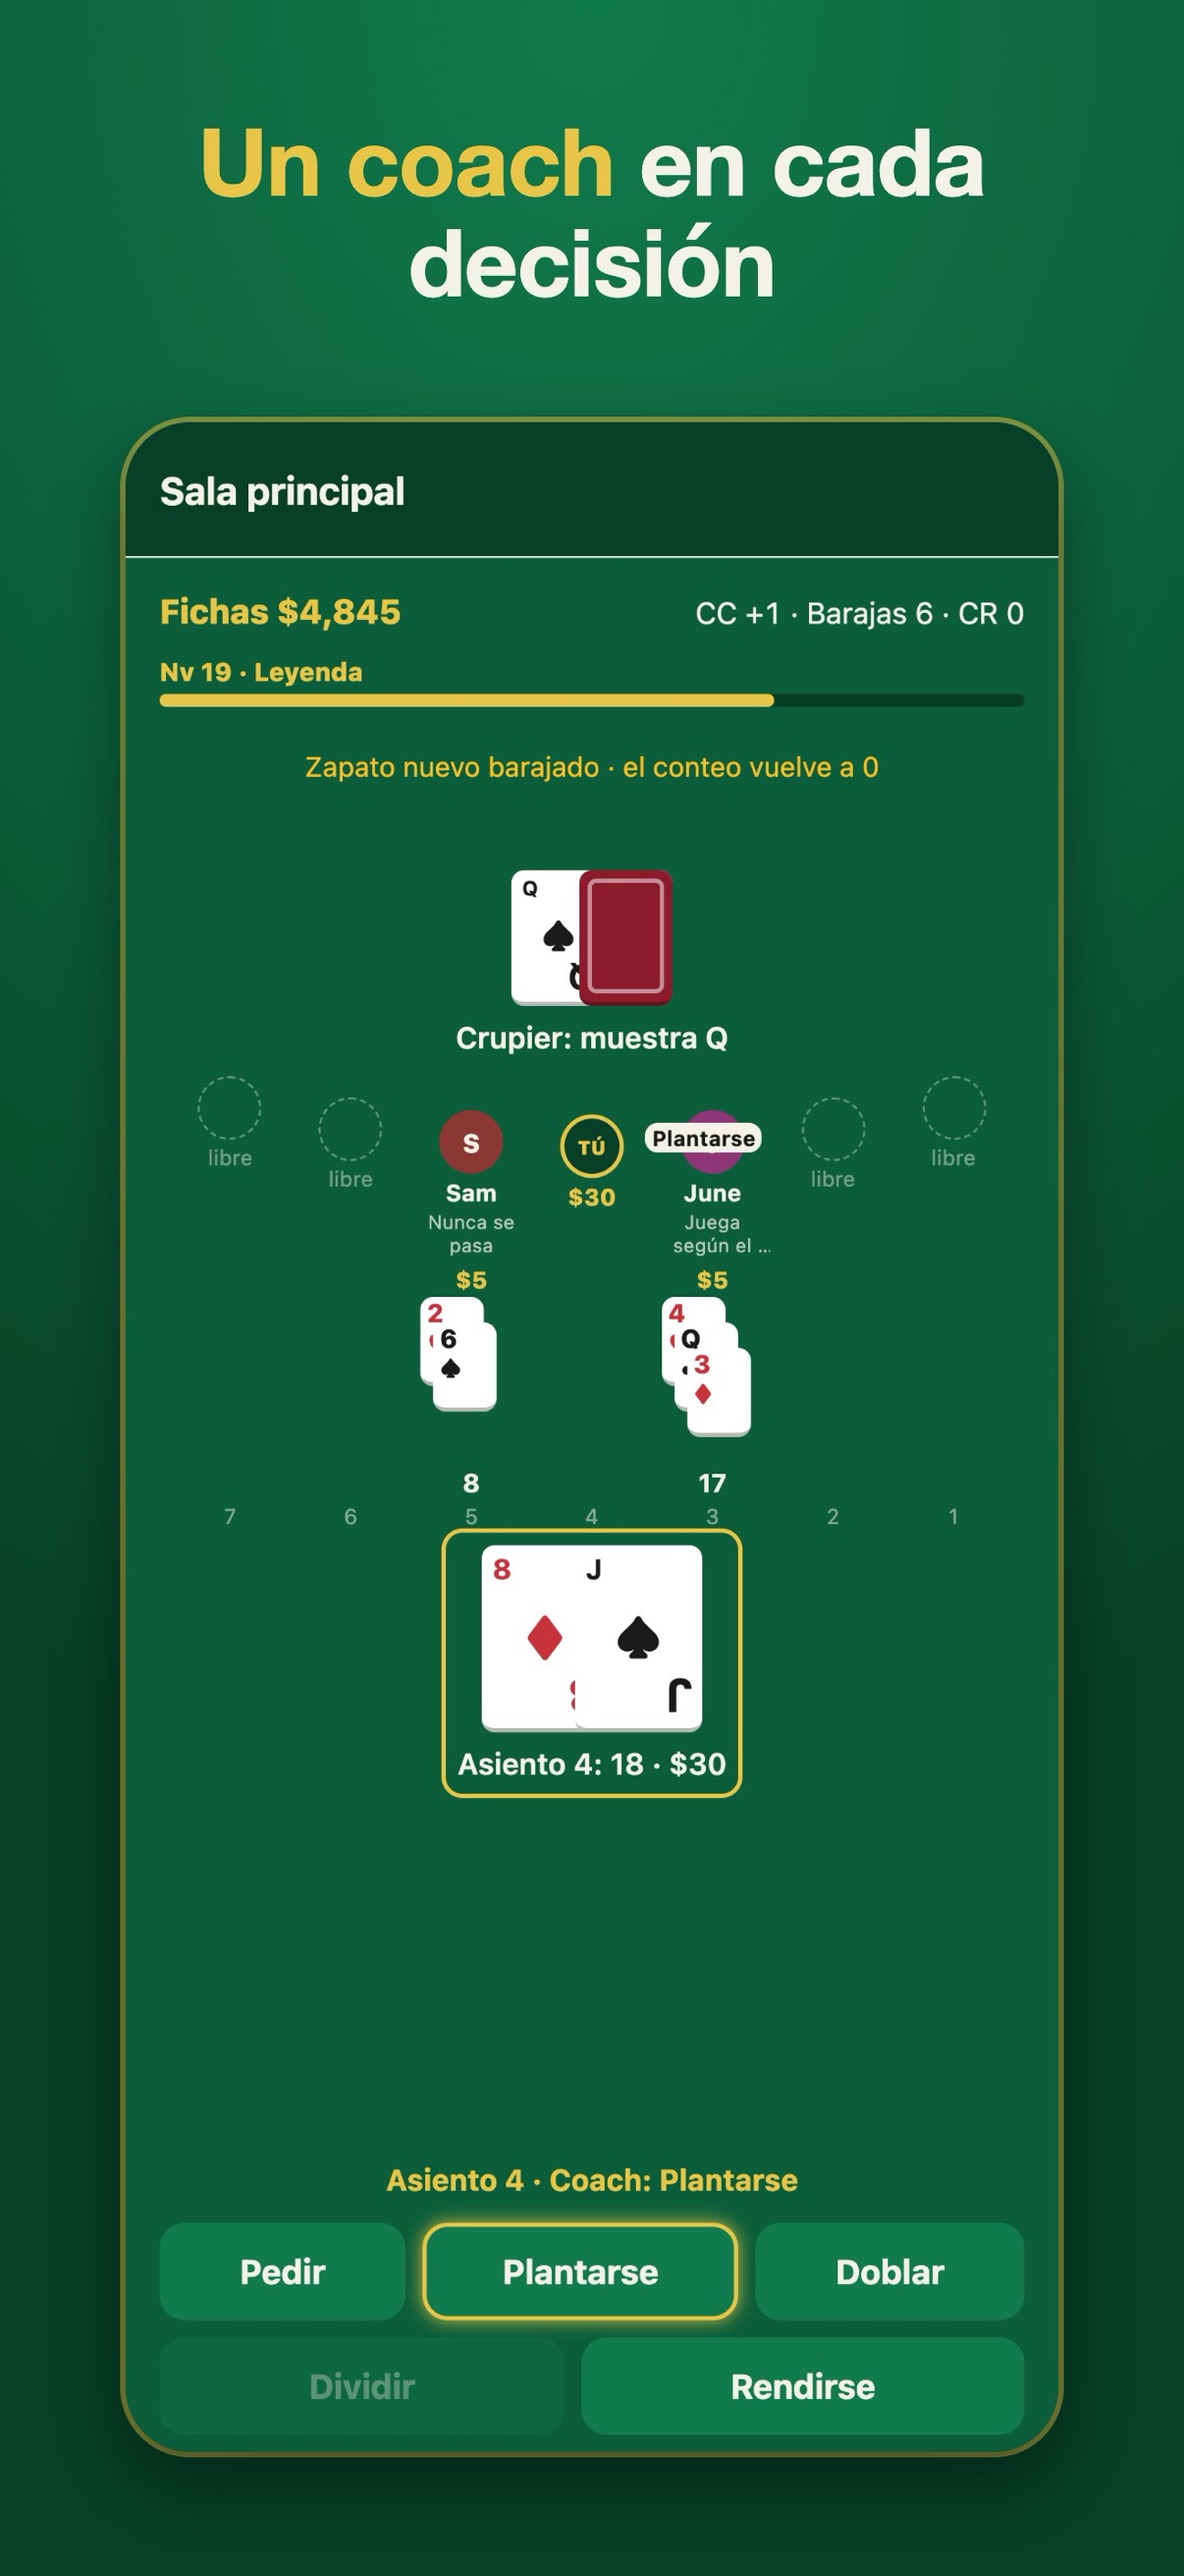
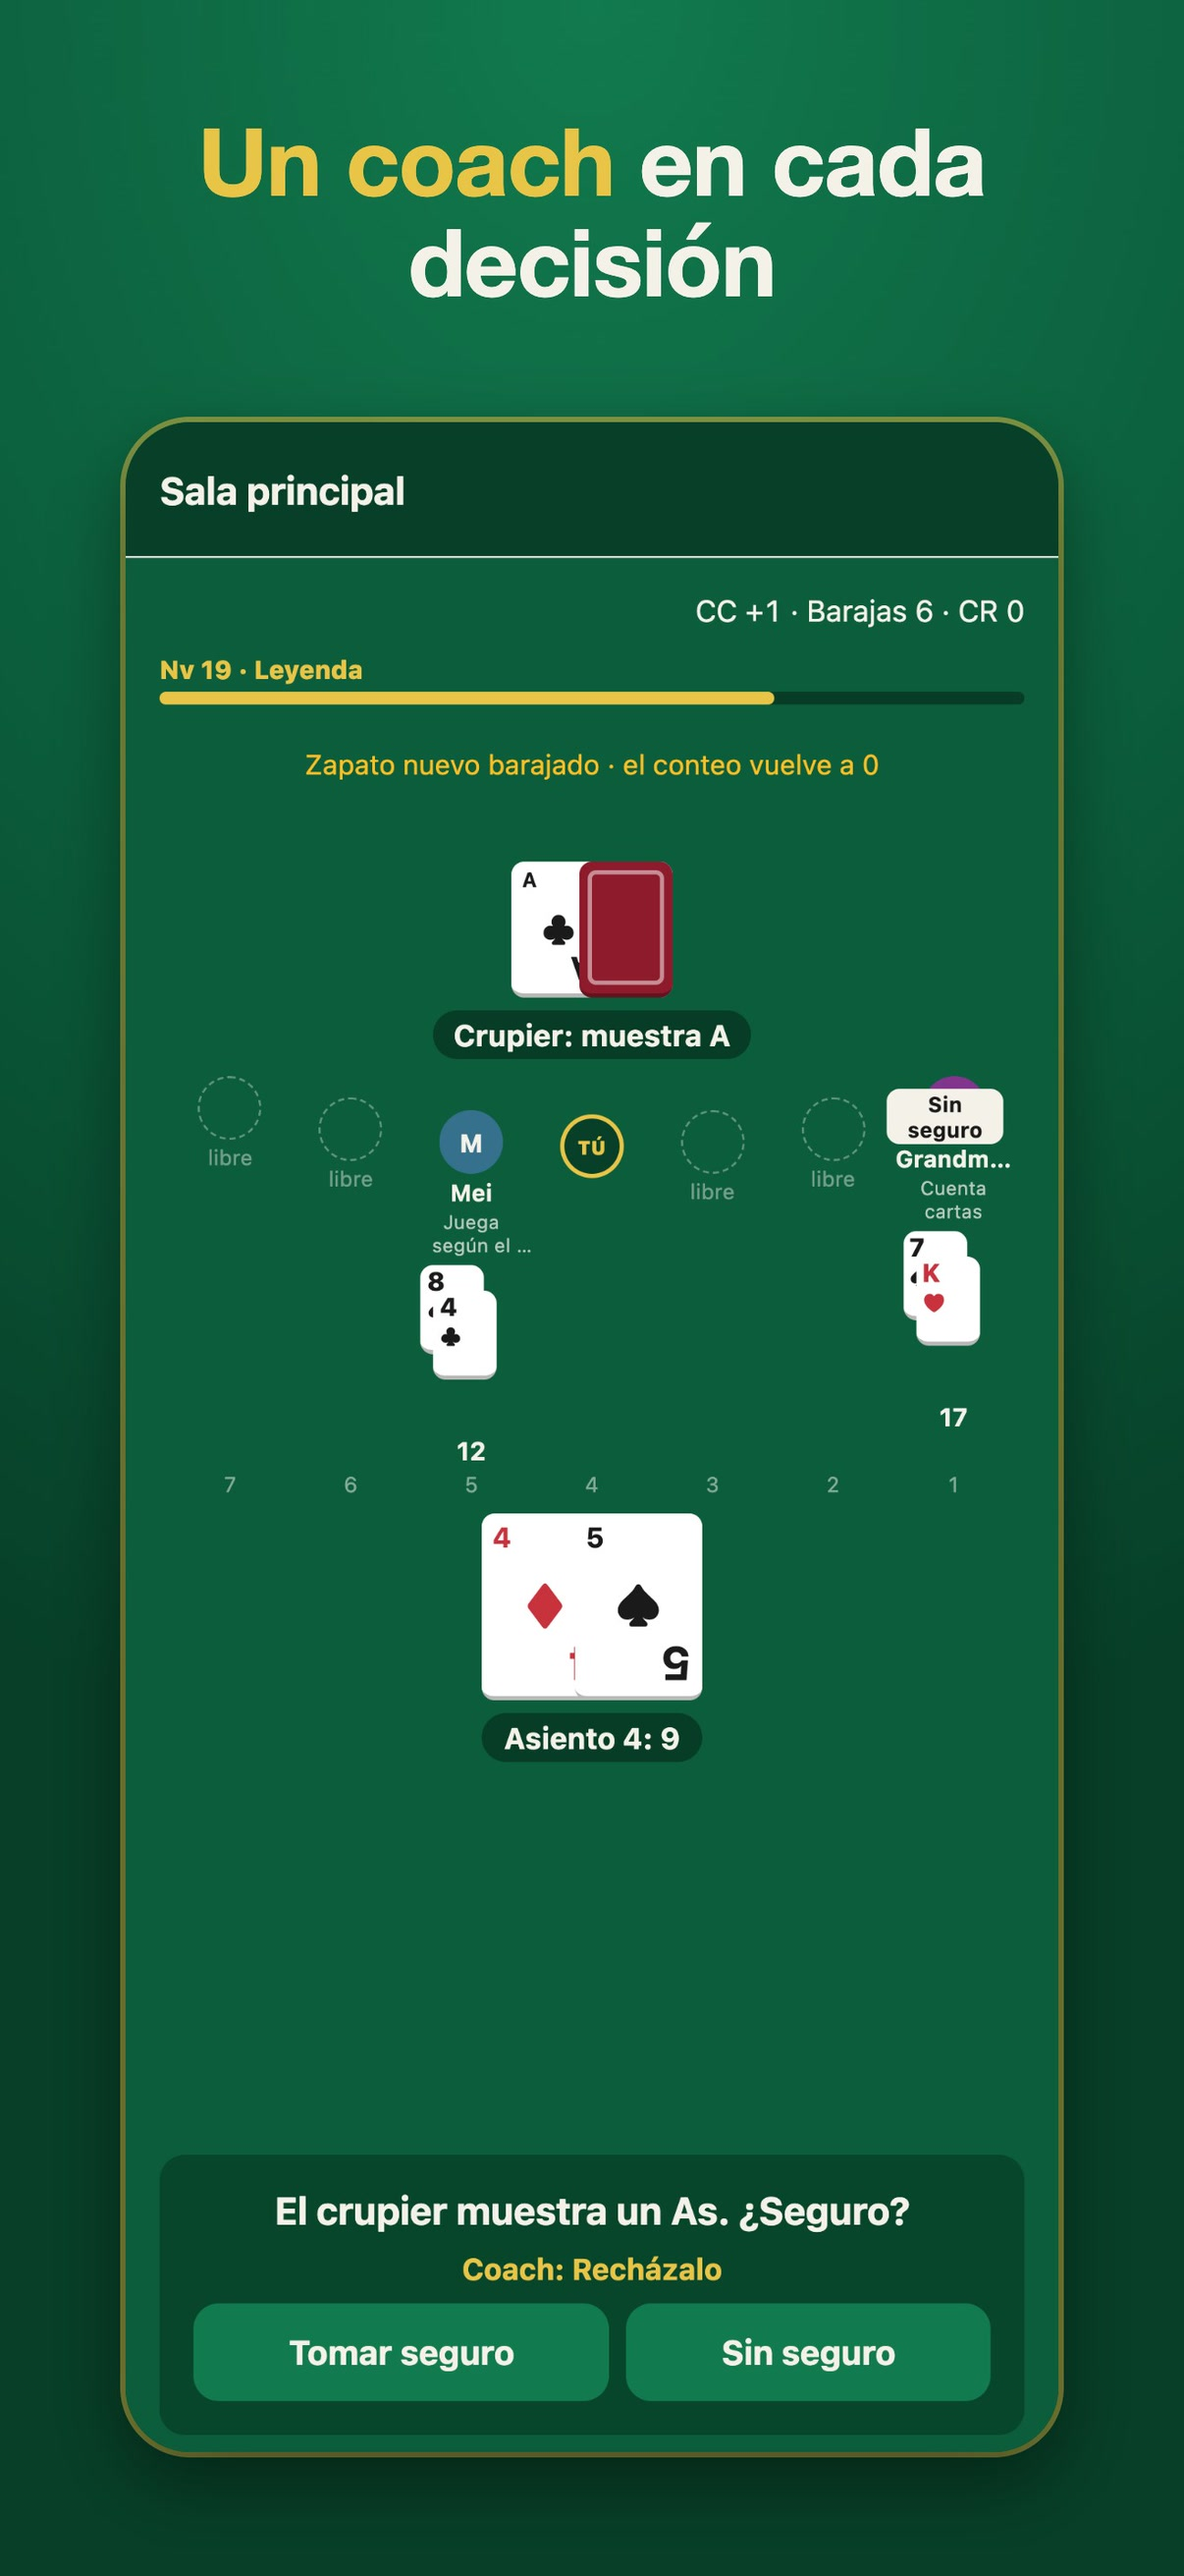
Resubmitted 1.0.0 (13): reply 2, listing text, 6.3-inch screenshots

diff --git a/docs/APP_STORE_LISTING.md b/docs/APP_STORE_LISTING.md
@@ -41,7 +41,7 @@ ShoeSharp takes you from your first hand to counting a six-deck shoe under real 
 PLAY PERFECT BASIC STRATEGY
 • A full seven-seat casino table with players who come and go
 • Ask the coach for the best play anytime, and see why you were wrong
-• Strategy chart that follows your table rules (decks, soft 17, surrender, 3:2 or 6:5)
+• Strategy chart that follows your table rules (decks, soft 17, surrender)
 • "Your Leaks" finds the decisions you miss most and drills them
 
 LEARN TO COUNT CARDS
@@ -63,7 +63,7 @@ MADE FOR YOU
 • No account needed: your progress stays on your device
 • Every feature free: ads keep it that way, and one optional purchase removes them
 
-For entertainment and education only. No betting, chips or prizes: every hand is practice. Card counting is legal, but casinos may ask counters to stop playing.
+For entertainment and education only. No betting, chips or prizes: every hand is practice.
 ```
 
 ### Screenshot captions (the first 3 matter most; most people never scroll past them)
@@ -98,7 +98,7 @@ ShoeSharp te lleva desde tu primera mano hasta contar un zapato de seis barajas 
 JUEGA CON ESTRATEGIA BÁSICA PERFECTA
 • Una mesa de casino de siete asientos con jugadores que llegan y se van
 • Pregúntale al coach la mejor jugada cuando quieras y entiende por qué fallaste
-• Tabla de estrategia que sigue las reglas de tu mesa (barajas, 17 blando, rendición, 3:2 o 6:5)
+• Tabla de estrategia que sigue las reglas de tu mesa (barajas, 17 blando, rendición)
 • "Tus fugas" encuentra las decisiones que más fallas y las entrena
 
 APRENDE A CONTAR CARTAS
@@ -120,7 +120,7 @@ HECHO PARA TI
 • Sin cuenta: tu progreso se guarda en tu dispositivo
 • Todas las funciones gratis: los anuncios lo mantienen así y una compra opcional los quita
 
-Solo para entretenimiento y aprendizaje. Sin apuestas, fichas ni premios: cada mano es práctica. Contar cartas es legal, pero los casinos pueden pedir a quien cuenta que deje de jugar.
+Solo para entretenimiento y aprendizaje. Sin apuestas, fichas ni premios: cada mano es práctica.
 ```
 
 Screenshot captions (ES): 1 **Cuenta cartas como un pro** · 2 **Un coach en cada decisión** ·

diff --git a/docs/APP_REVIEW_REPLY.md b/docs/APP_REVIEW_REPLY.md
@@ -71,7 +71,7 @@ available. To reach it: Me tab → Settings → Remove ads. Restore purchase is 
 
 Apple rejected 1.0.0 under guideline 2.3.6: the age rating declared Simulated Gambling (betting
 or wagering without real money), and apps with simulated gambling must come from an
-organization account. Build 12 removes all betting. Before replying: attach build 12 to the
+organization account. Build 13 removes all betting (build 12 failed to compile). Before replying: attach build 13 to the
 version, change the age rating to **Simulated Gambling: None** (APP_STORE_CONNECT.md §5),
 update the description, IAP description and review notes, then paste the text below into the
 reply and resubmit.
@@ -81,7 +81,7 @@ reply and resubmit.
 Hello App Review team, thank you for explaining the issue. We have resolved it by removing all
 betting and wagering from the app rather than changing the account type.
 
-**What changed in build 12:** ShoeSharp no longer contains any form of betting or wagering, real
+**What changed in build 13:** ShoeSharp no longer contains any form of betting or wagering, real
 or simulated. We removed:
 
 - the virtual chips, the bankroll and every bet (there is nothing to stake on any hand);
@@ -100,7 +100,10 @@ There are no chips, no bets, no prizes and nothing of value to win or lose; prog
 only in lessons completed, accuracy, experience points and levels.
 
 **Age rating:** we have updated the age rating questionnaire to Simulated Gambling: None and
-Gambling: No.
+Gambling: No, and we chose to keep the app rated 18+.
+
+**Also new in build 13:** an optional daily practice reminder (a local notification, offered once
+after the player claims their first daily goal) and daily goal streaks.
 
 **In-App Purchase:** the only purchase, "Remove ads" (non-consumable, USD 2.99), removes the
 full-screen ads shown between hands. It does not unlock content, currency or any advantage. It
